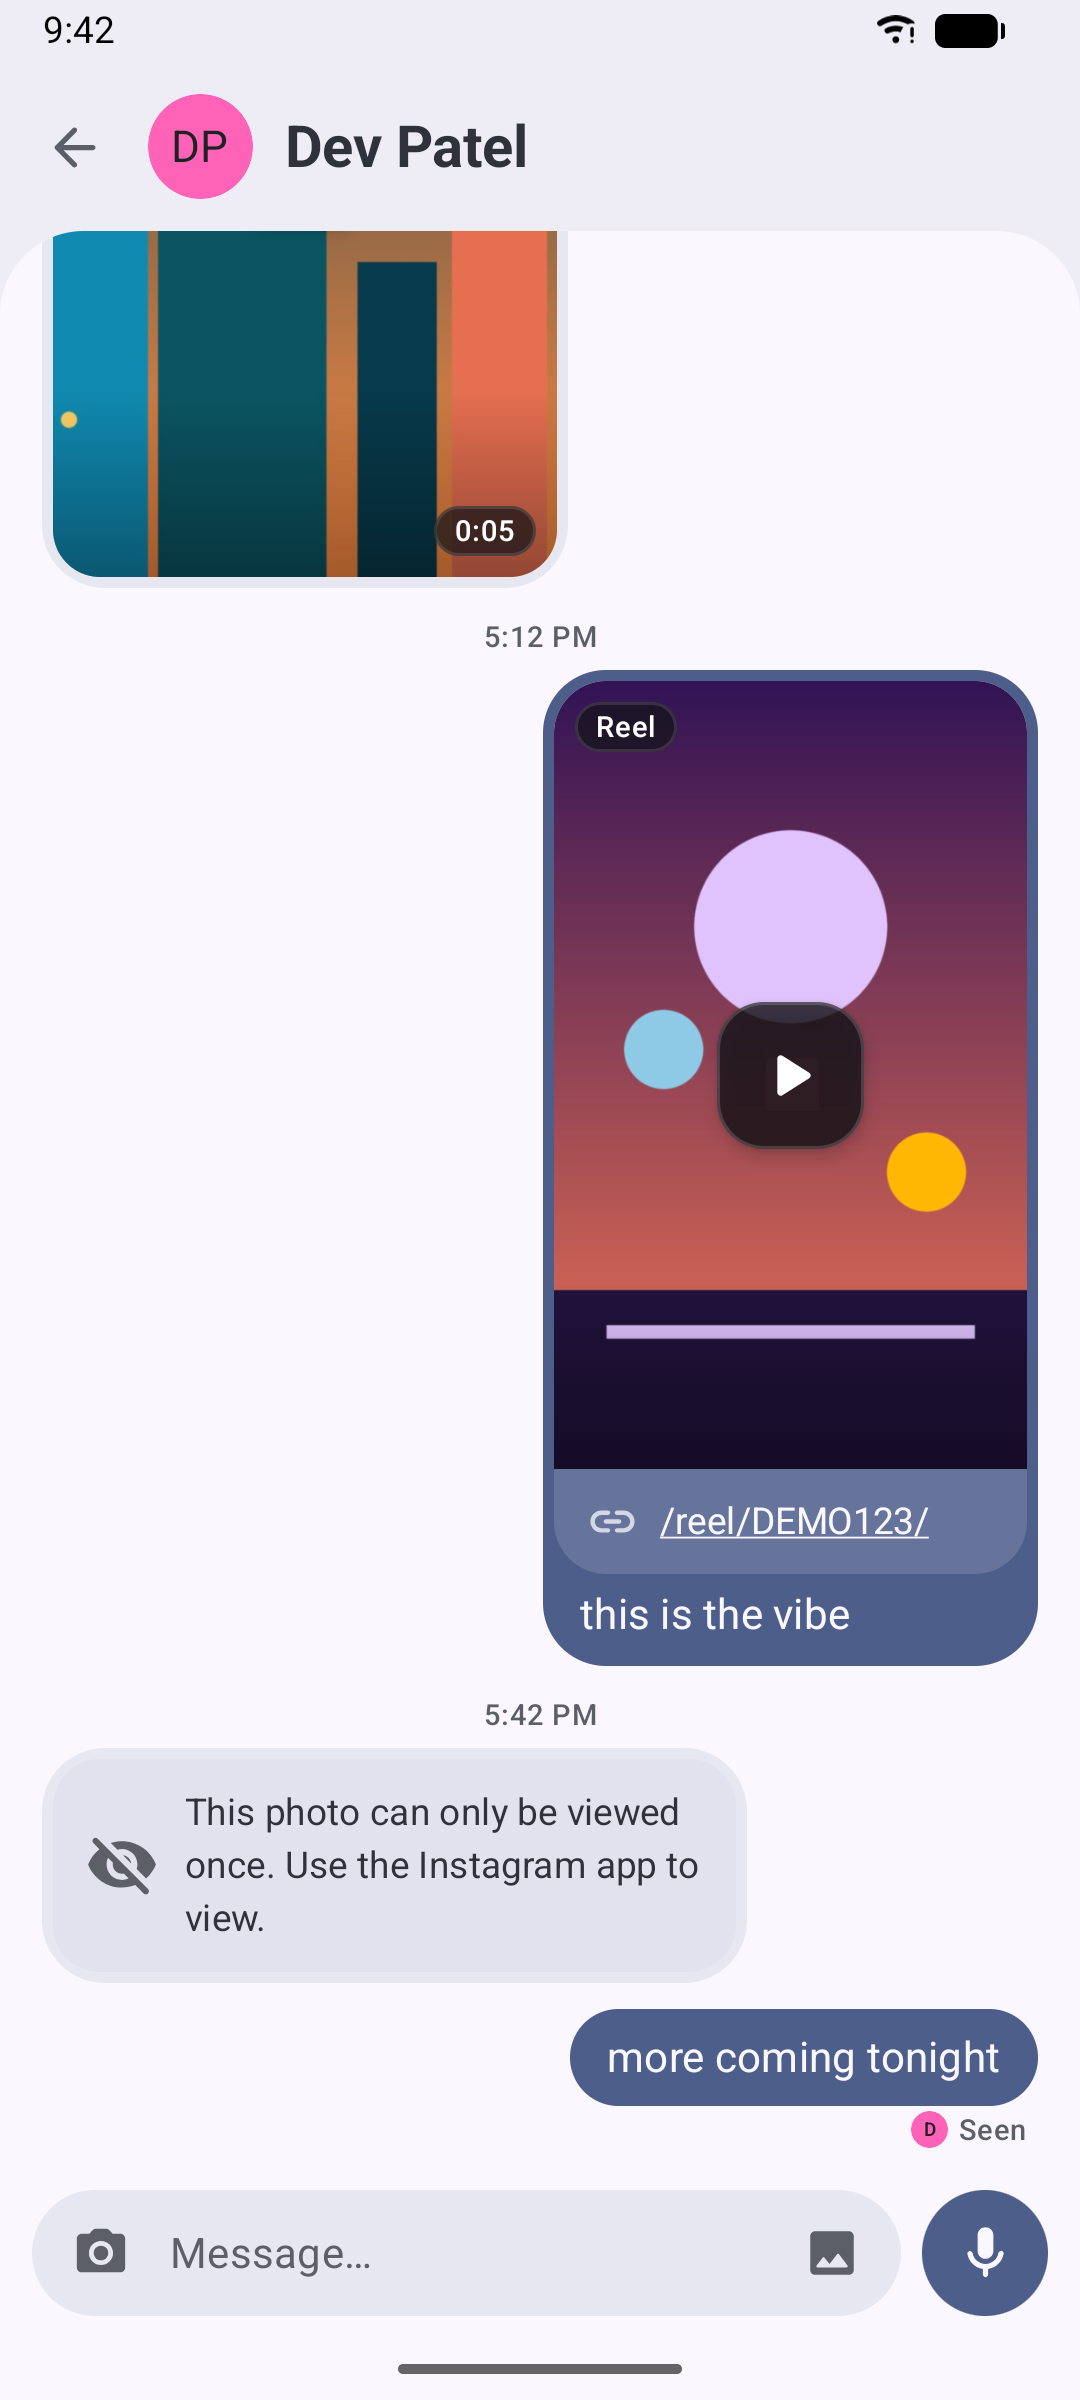
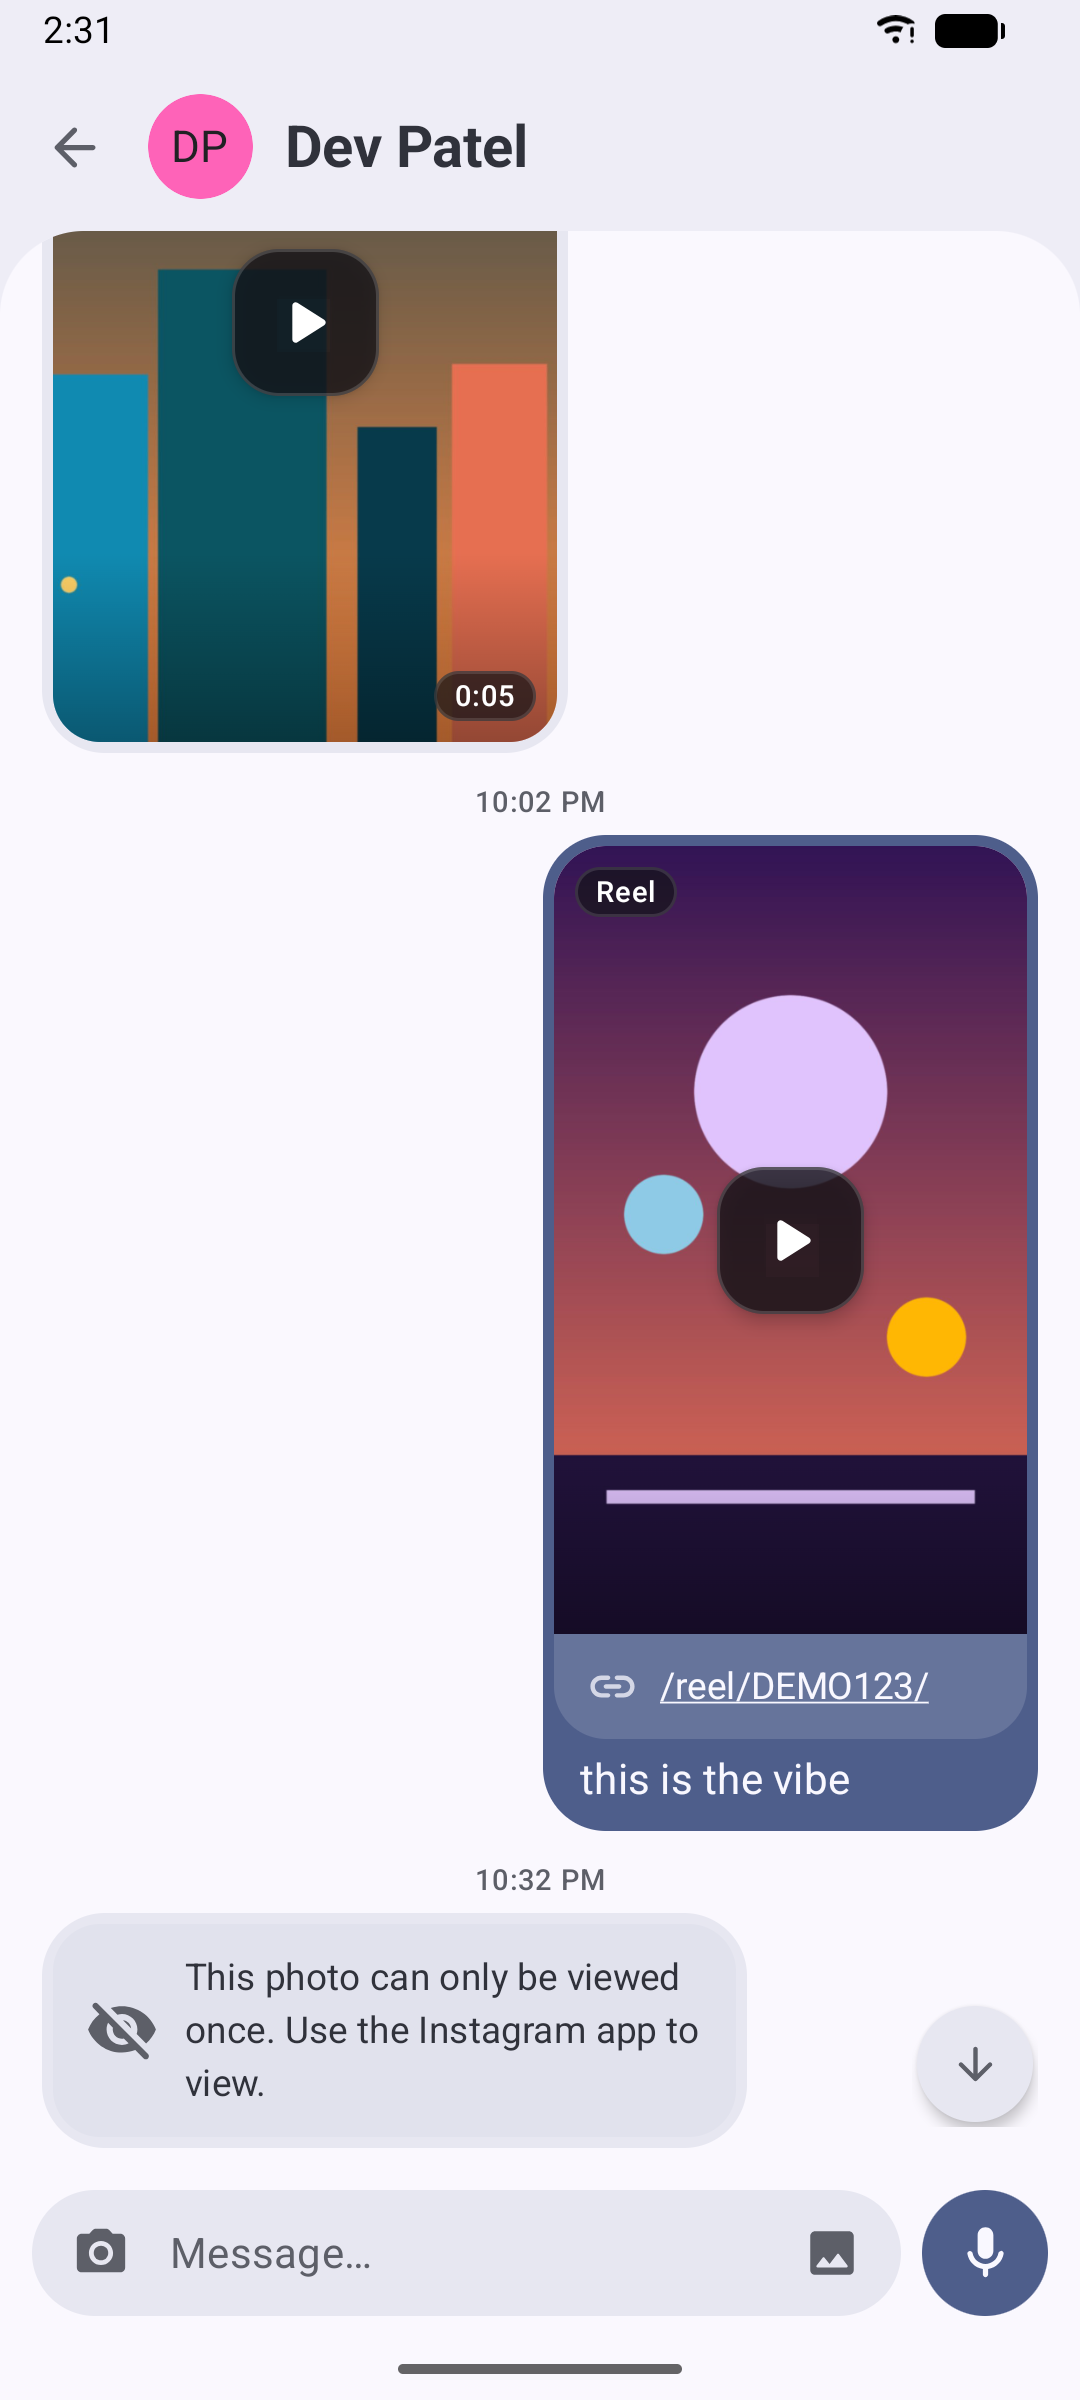
chore(demo): refresh screenshots for music shares and live locations
The Dev Patel thread now carries a music card and a live-location card, so
the media-cards capture scrolls back to the video, reel, and view-once
bubbles and a new shot shows the share cards. The location share has no
caption and no separate expired notice, matching Instagram editing the
share in place.

diff --git a/app/src/androidTestDemo/java/com/goldrift/instadm/demo/screenshots/ScreenshotSupport.kt b/app/src/androidTestDemo/java/com/goldrift/instadm/demo/screenshots/ScreenshotSupport.kt
@@ -6,9 +6,11 @@ import androidx.compose.ui.test.click
 import androidx.compose.ui.test.onAllNodesWithContentDescription
 import androidx.compose.ui.test.onAllNodesWithText
 import androidx.compose.ui.test.onNodeWithContentDescription
+import androidx.compose.ui.test.onNodeWithTag
 import androidx.compose.ui.test.onNodeWithText
 import androidx.compose.ui.test.onRoot
 import androidx.compose.ui.test.performClick
+import androidx.compose.ui.test.performScrollToKey
 import androidx.compose.ui.test.performTouchInput
 import androidx.test.platform.app.InstrumentationRegistry
 import androidx.test.uiautomator.UiDevice
@@ -81,6 +83,12 @@ internal class ScreenshotSession(
     }
 
     fun node(text: String): SemanticsNodeInteraction = rule.onNodeWithText(text)
+
+    /** Scrolls the transcript so the message with this id sits at the newest edge. */
+    fun scrollTranscriptToMessage(id: String) {
+        rule.onNodeWithTag("message_list").performScrollToKey(id)
+        rule.waitForIdle()
+    }
 
     fun nodeWithDescription(description: String): SemanticsNodeInteraction =
         rule.onNodeWithContentDescription(description)

diff --git a/app/src/demo/java/com/goldrift/instadm/demo/DemoData.kt b/app/src/demo/java/com/goldrift/instadm/demo/DemoData.kt
@@ -374,16 +374,8 @@ internal object DemoData {
             "demo_dev_8",
             dev,
             now - 190 * MINUTE,
-            "waiting by the booth on the river",
             kind = "link",
             media = listOf(location(12.34, 56.78, "map.png")),
-        )
-        val ended = message(
-            "demo_dev_9",
-            dev,
-            now - 187 * MINUTE,
-            "Location expired",
-            kind = "location-ended",
         )
         return ThreadSpec(
             id = "demo_dev",
@@ -391,7 +383,7 @@ internal object DemoData {
             title = "Dev Patel",
             isGroup = false,
             participants = listOf(viewer, dev),
-            messages = listOf(shots, great, clip, vibe, once, more, song, here, ended),
+            messages = listOf(shots, great, clip, vibe, once, more, song, here),
             viewerWatermarkMs = now,
             otherWatermarkMs = now,
         )

diff --git a/app/src/androidTestDemo/java/com/goldrift/instadm/demo/screenshots/DemoScreenshotTest.kt b/app/src/androidTestDemo/java/com/goldrift/instadm/demo/screenshots/DemoScreenshotTest.kt
@@ -104,7 +104,11 @@ class DemoScreenshotTest {
         session.tapBack()
         session.awaitText("Dev Patel")
         session.tap("Dev Patel")
-        session.awaitText("more coming tonight")
+        session.awaitText("Live location")
+        Thread.sleep(800)
+        session.capture("16-music-and-location-light")
+        // The media cards sit above the newest share cards.
+        session.scrollTranscriptToMessage("demo_dev_5")
         Thread.sleep(800)
         session.capture("11-media-cards-light")
 

diff --git a/scripts/update-readme-screenshots.py b/scripts/update-readme-screenshots.py
@@ -32,6 +32,7 @@ CAPTIONS = {
     "13-account-menu-light": "Account menu",
     "14-settings-light": "Settings",
     "15-banner-light": "Banner for another chat",
+    "16-music-and-location-light": "Music and live location",
     "01-inbox-dark": "Inbox (dark)",
     "02-chat-dark": "Chat (dark)",
     "03-media-viewer-dark": "Media viewer (dark)",

diff --git a/README.md b/README.md
@@ -159,7 +159,7 @@ Captured from the offline demo build on an API 37 emulator.
       <td align="center"><img src="docs/screenshots/light/13-account-menu-light.png" width="220" alt="Account menu"><br><sub>Account menu</sub></td>
       <td align="center"><img src="docs/screenshots/light/14-settings-light.png" width="220" alt="Settings"><br><sub>Settings</sub></td>
       <td align="center"><img src="docs/screenshots/light/15-banner-light.png" width="220" alt="Banner for another chat"><br><sub>Banner for another chat</sub></td>
-      <td></td>
+      <td align="center"><img src="docs/screenshots/light/16-music-and-location-light.png" width="220" alt="Music and live location"><br><sub>Music and live location</sub></td>
     </tr>
 </table>
 
